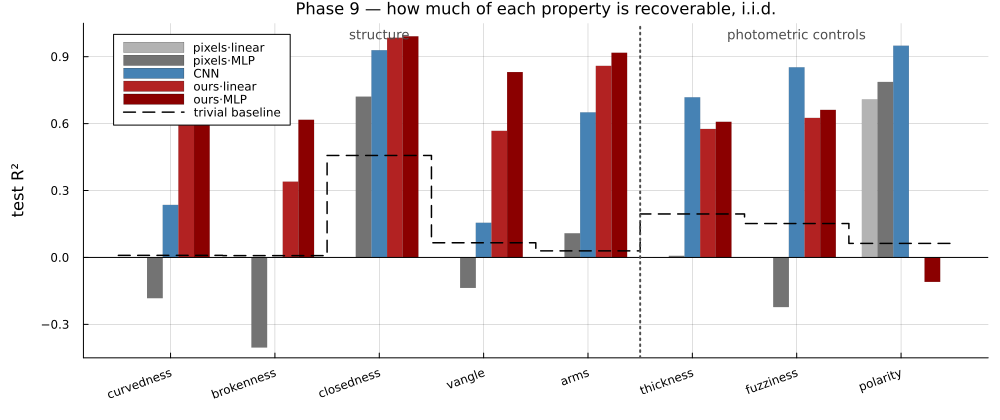
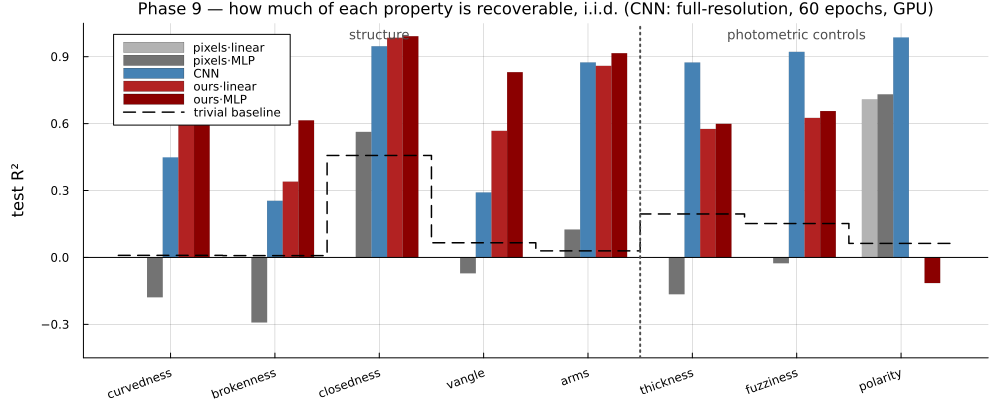
Correct the CNN comparison against a properly trained network
The earlier CNN was two strided convolutions trained 12 epochs on CPU, carrying
the caveat that its numbers were a floor. The caveat was justified: a
full-resolution four-stage net with pooling and batch norm, 60 epochs on the
GPU, moves arms 0.650 -> 0.874, curvedness 0.235 -> 0.449, vangle 0.155 ->
0.291.

So "beats an end-to-end CNN on all five structural properties" is now false and
has been corrected: ours-linear wins four and loses arms 0.859 to 0.874.
ours-MLP still wins all five.

The brokenness failure was the striding, as the earlier text speculated: the
strided net sat at zero at every sample size, the full-resolution one reaches
0.254.

The two results that matter most got stronger. At k=500 the better CNN is still
at or below zero on four of five structural rows while ours is near its ceiling
-- a better architecture raised its ceiling without reducing its appetite for
data. And on inverted polarity it collapses: best arm on arms i.i.d. at 0.874,
-0.415 under the flip, -2.225 on vangle.

It also trains unstably: mean val R2 over the last 20 epochs swings from -2.566
to 0.709, sd 0.784, against 0.007 for ours-MLP. New figure phase9_learning.png.

diff --git a/SimpleStrokeTests/RESULTS.md b/SimpleStrokeTests/RESULTS.md
@@ -17,8 +17,9 @@ from scratch, including how the splits guarantee the comparisons are fair.
 ## Summary
 
 1. **A linear readout on 279 of our features beats a two-hidden-layer MLP on 12,544 raw
-   pixels on every structural property, and beats an end-to-end CNN on all five.**
-   `vangle` 0.567 vs the CNN's 0.155, `brokenness` 0.340 vs −0.002.
+   pixels on every structural property, and beats a properly trained end-to-end CNN on four
+   of five** — `vangle` 0.567 vs 0.291, `curvedness` 0.682 vs 0.449 — **losing `arms`
+   narrowly, 0.859 to 0.874.** With an MLP readout instead of a linear one it wins all five.
 2. **Under nuisance shift the gap widens.** Trained on light strokes and tested on dark,
    `ours·linear` is unchanged to three decimals while both pixel arms fall far below
    predicting the mean — the MLP to −6.04.
@@ -79,14 +80,20 @@ existed, and the pixel probe has 45× more free parameters than our feature prob
 | *trivial baseline* | 0.009 | 0.008 | 0.457 | 0.066 | 0.029 | 0.195 | 0.152 | 0.063 |
 | pixels·linear | −0.000 | −0.001 | −0.000 | −0.000 | 0.000 | −0.002 | −0.000 | **0.709** |
 | pixels·MLP | −0.183 | −0.404 | 0.721 | −0.137 | 0.108 | 0.007 | −0.222 | **0.787** |
-| CNN | 0.235 | −0.002 | 0.929 | 0.155 | 0.650 | **0.718** | **0.852** | **0.949** |
-| **ours·linear** | **0.682** | **0.340** | **0.985** | **0.567** | **0.859** | 0.576 | 0.625 | −0.000 |
-| ours·MLP | **0.830** | **0.617** | **0.991** | **0.831** | **0.918** | 0.608 | 0.661 | −0.110 |
+| CNN | 0.449 | 0.254 | 0.947 | 0.291 | **0.874** | **0.874** | **0.922** | **0.986** |
+| **ours·linear** | **0.682** | **0.340** | **0.985** | **0.567** | 0.859 | 0.576 | 0.625 | −0.000 |
+| ours·MLP | **0.829** | **0.615** | **0.992** | **0.831** | **0.916** | 0.599 | 0.656 | −0.115 |
+
+*CNN = full-resolution, four conv stages with pooling and batch norm, 60 epochs on a GPU.
+The earlier CPU-era numbers, from two strided convolutions trained for 12 epochs, are in
+"What the weaker CNN cost" below — the difference is large and the caveat was justified.*
 
 **The result splits along the structural/photometric line.** On geometry our fixed features
-with a linear readout beat everything, including a CNN trained on the targets. On the three
-photometric rows the CNN wins — thickness, blur and contrast sign are local statistics a
-convolutional net learns directly, and two of them our representation deliberately discards.
+with a *linear* readout still beat a CNN trained end-to-end on these targets — on four of
+the five rows. The exception is `arms`, where the CNN edges ahead 0.874 to 0.859; with an
+MLP readout on the same features we lead there too, 0.916. On the three photometric rows the
+CNN wins clearly — thickness, blur and contrast sign are local statistics a convolutional net
+learns directly, and two of them our representation deliberately discards.
 
 **`pixels·linear` at exactly zero is the sanity check, not a failure.** A fixed weighted sum
 of pixels is a template at a fixed location, and position and rotation are randomised, so no
@@ -112,9 +119,15 @@ trained.
 |:--|--:|--:|--:|--:|--:|--:|--:|
 | *trivial* | 0.008 | 0.009 | 0.437 | 0.070 | 0.031 | 0.204 | 0.184 |
 | pixels·linear | −0.130 | −0.112 | −2.352 | −0.532 | −1.773 | −2.931 | −0.889 |
-| pixels·MLP | −1.806 | −1.861 | **−6.042** | −5.117 | −3.973 | −7.921 | −4.591 |
+| pixels·MLP | −2.747 | −1.491 | −5.025 | −3.668 | **−6.981** | −8.319 | −4.060 |
+| CNN | 0.202 | −0.197 | 0.817 | **−2.225** | −0.415 | −1.039 | −0.260 |
 | **ours·linear** | **0.682** | **0.350** | **0.985** | **0.570** | **0.857** | 0.634 | 0.639 |
-| ours·MLP | **0.850** | **0.634** | **0.996** | **0.872** | **0.925** | 0.678 | 0.709 |
+| ours·MLP | **0.849** | **0.661** | **0.997** | **0.870** | **0.929** | 0.671 | 0.699 |
+
+**This is where the properly trained CNN separates from us most sharply, and not in its
+favour.** It is the strongest arm on `arms` i.i.d. (0.874) and lands at **−0.415** on the
+same property when contrast is inverted. On `vangle` it goes 0.291 → **−2.225**. Whatever it
+learned about geometry was entangled with which way the contrast ran.
 
 `ours·linear` here is **identical to its i.i.d. row to three decimals** — perfect transfer to
 a contrast polarity it never saw. Both pixel arms do not merely fail; they land far below

diff --git a/SimpleStrokeTests/RESULTSexpanded.md b/SimpleStrokeTests/RESULTSexpanded.md
@@ -222,13 +222,18 @@ is dropped from that split, and shown as `—`. Reporting a number there would b
 | *trivial baseline* | 0.009 | 0.008 | 0.457 | 0.066 | 0.029 |
 | pixels · linear | −0.000 | −0.001 | −0.000 | −0.000 | 0.000 |
 | pixels · MLP | −0.183 | −0.404 | 0.721 | −0.137 | 0.108 |
-| CNN | 0.235 | −0.002 | 0.929 | 0.155 | 0.650 |
-| **ours · linear** | **0.682** | **0.340** | **0.985** | **0.567** | **0.859** |
-| ours · MLP | **0.830** | **0.617** | **0.991** | **0.831** | **0.918** |
+| CNN | 0.449 | 0.254 | 0.947 | 0.291 | **0.874** |
+| **ours · linear** | **0.682** | **0.340** | **0.985** | **0.567** | 0.859 |
+| ours · MLP | **0.829** | **0.615** | **0.992** | **0.831** | **0.916** |
 
-Read the `vangle` column. Raw pixels: nothing. A large neural network on raw pixels: worse
-than nothing. A CNN that learned its own features for this exact task: 0.155. **Our fixed
-features with a plain weighted sum: 0.567.**
+Read the `vangle` column — the angle of a corner. Raw pixels: nothing. A large neural network
+on raw pixels: worse than nothing. A CNN that learned its own features for this exact task:
+0.291. **Our fixed features with a plain weighted sum: 0.567.**
+
+The CNN wins one of the five, `arms` — how many branches meet at a point — by 0.874 to 0.859.
+With a neural network reading our features instead of a weighted sum we lead there too
+(0.916). An earlier version of this experiment used a weaker CNN and we beat it on all five;
+that was not a fair fight, and the numbers above are from a proper one.
 
 **Raw pixels scoring exactly zero is the expected result, not a bug.** A linear readout on
 pixels is a fixed template — it asks "is the image bright *here* and dark *there*?" Since
